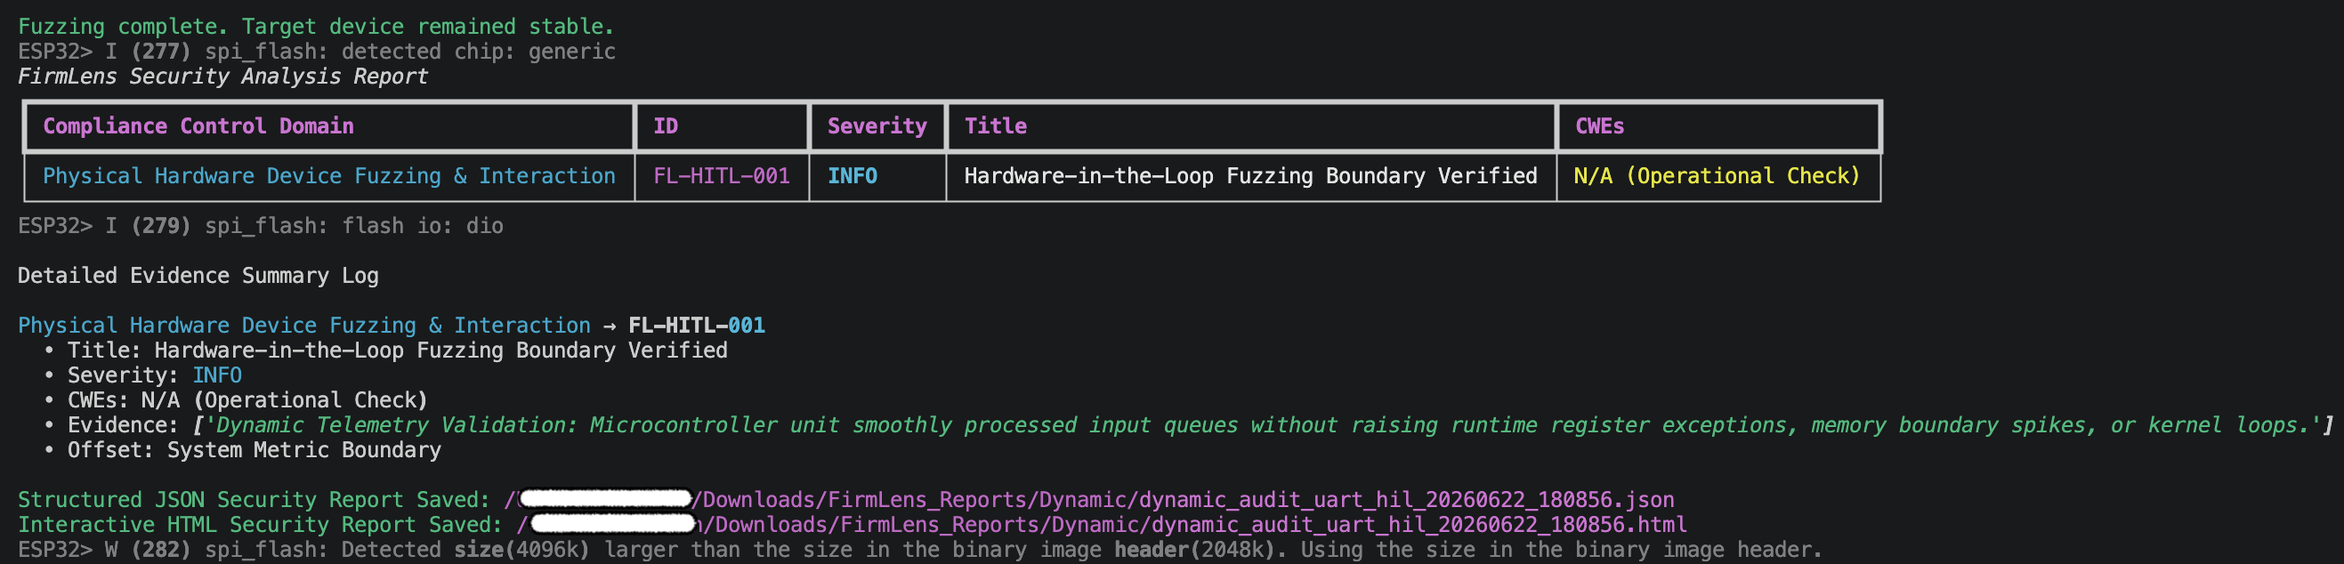
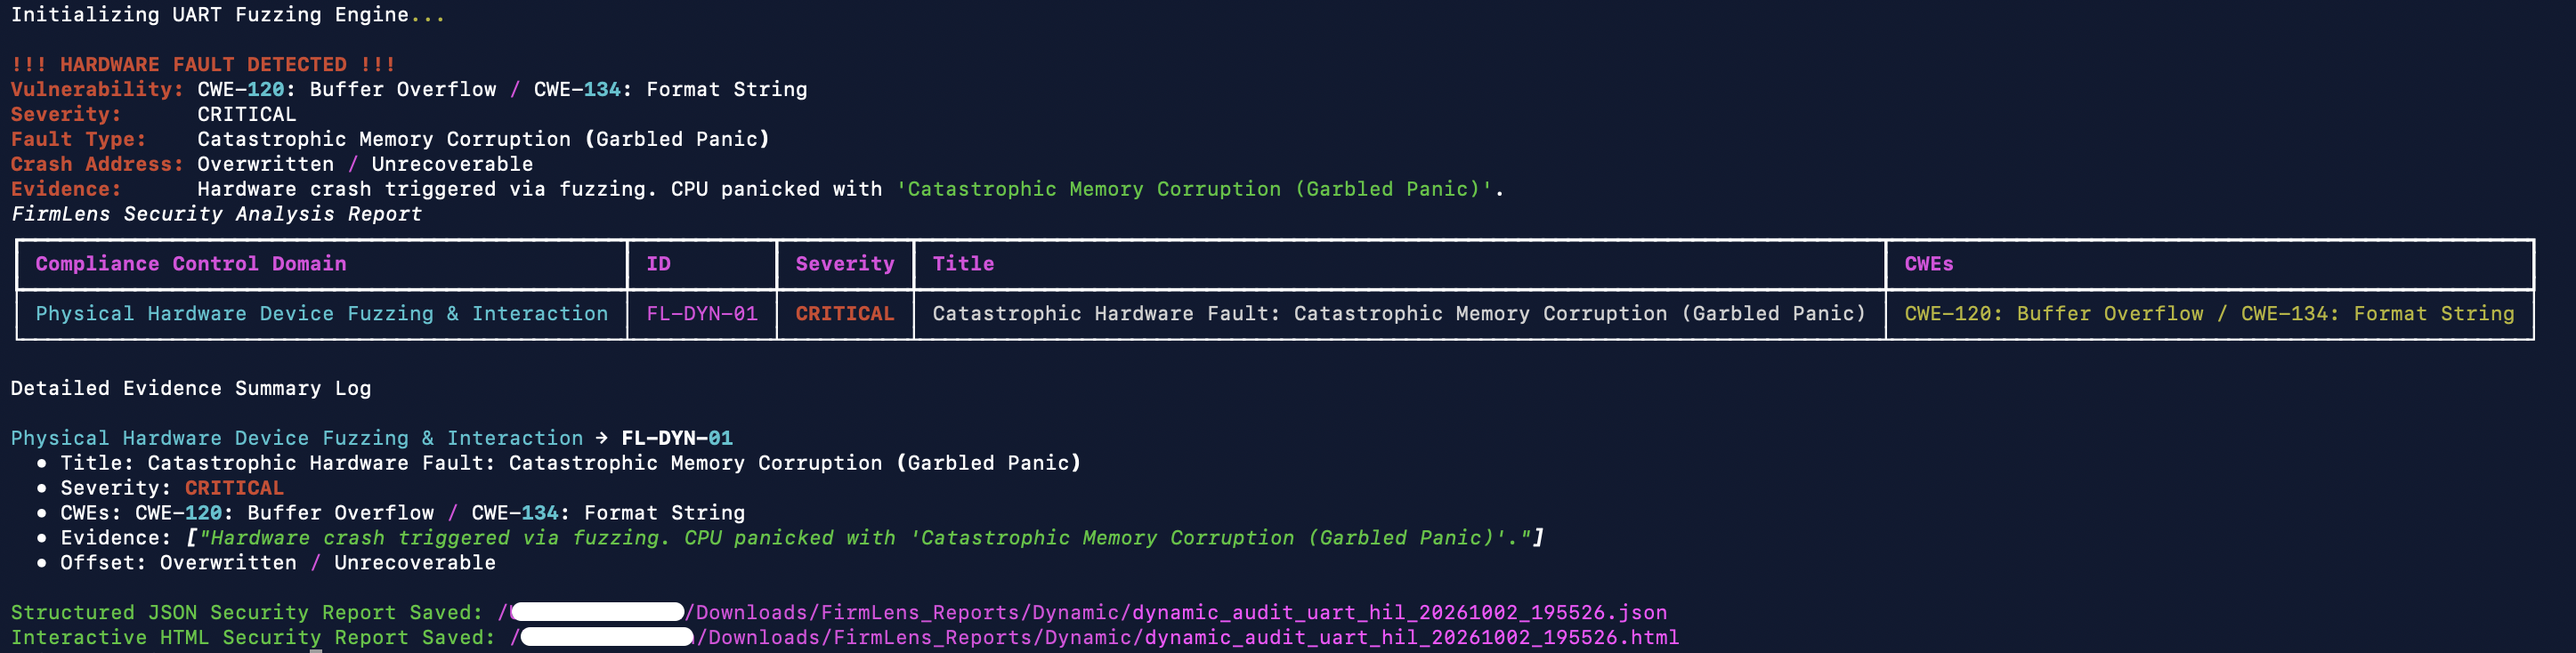
release: v1.0.5 documentation, CFF/BibTeX citation alignment, and Zenodo DOI sync

Changed region(s): [[0.0, 0.0, 0.9962, 1.0]]

diff --git a/firm_lens/main.py b/firm_lens/main.py
@@ -76,7 +76,7 @@ class FirmLensCLICommandGroup(click.Group):
     cls=FirmLensCLICommandGroup,
     invoke_without_command=True,
     help="""
-FirmLens — Industrial-Grade Embedded IoT Firmware Security Analysis Engine.
+FirmLens — Automated Static, Hardware-Rooted & Dynamic HIL Security Analysis for Bare-Metal ESP32 (Xtensa & RISC-V) Firmware.
 
 Automates binary partition carving, sliding-window Shannon entropy mapping, 
 symbolic vulnerability tracking, and automated CWE/CVE supply-chain mapping.

diff --git a/firm_lens/banner.py b/firm_lens/banner.py
@@ -6,6 +6,7 @@ _____ ___ ____  __  __ _     _____ _   _ ____ ____ _
  |  _|  | ||  _ <| |  | | |___| |___| |\  |___) |
  |_|   |___|_| \_\_|  |_|_____|_____|_| \_|____/ 
                                                  
- [ Industrial-Grade Embedded IoT Firmware Security Analysis Engine ]
+ [ Automated Security Analysis for Bare-Metal ESP32 (Xtensa & RISC-V) ]
+ [ Static, Hardware-Rooted & Dynamic HIL Telemetry ]
 
  """

diff --git a/firm_lens/analyzers/fingerprint_analyzer.py b/firm_lens/analyzers/fingerprint_analyzer.py
@@ -3,7 +3,7 @@ from typing import List
 from firm_lens.utils.findings import Finding
 
 class FingerprintAnalyzer:
-    """Industrial-grade SDK & Library Fingerprinting Engine."""
+    """SDK & Library Fingerprinting Engine."""
     def __init__(self):
         self.sdk_patterns = {
             "ESP-IDF": re.compile(rb"esp-idf-v(\d+\.\d+\.\d+)"),

diff --git a/firm_lens/utils/string_extractor.py b/firm_lens/utils/string_extractor.py
@@ -3,7 +3,7 @@ from typing import List, Tuple
 
 class StringExtractor:
     """
-    Industrial-grade High-Performance String Carving Engine.
+    High-Performance String Carving Engine.
     Leverages an optimized regular expression execution matrix to extract 
     printable ASCII streams and apply semantic squelching for IoT SDKs.
     """

diff --git a/firm_lens/analyzers/cve_analyzer.py b/firm_lens/analyzers/cve_analyzer.py
@@ -6,7 +6,7 @@ from firm_lens.utils.findings import Finding
 
 class CVEAnalyzer:
     """
-    Industrial-grade Dynamic Threat Intelligence Engine.
+    Dynamic Threat Intelligence Engine.
     Queries an offline-first relational vulnerability database with robust version matching.
     """
     def __init__(self, db_path: str = None):

diff --git a/firm_lens/reports/report_generator.py b/firm_lens/reports/report_generator.py
@@ -11,7 +11,7 @@ from pathlib import Path
 
 class ReportGenerator:
     """
-    Industrial-grade Safe Report Orchestrator.
+    Safe Report Orchestrator.
     Protects proprietary analytical thresholds, math calculations, and heuristics
     from client-side exposure via automated output telemetry sanitization.
     """

diff --git a/README.md b/README.md
@@ -1,11 +1,14 @@
 # FirmLens
 
-**Industrial-Grade Embedded IoT Firmware Security Analysis Engine**
+**Automated Static, Hardware-Rooted & Dynamic HIL Security Analysis for Bare-Metal ESP32 (Xtensa & RISC-V) Firmware**
 
-[![License: MIT](https://img.shields.io/badge/License-MIT-blue.svg)](https://opensource.org/licenses/MIT)
-[![Python Version](https://img.shields.io/badge/Python-3.10%2B-darkgreen.svg)]()
-[![Platform Support](https://img.shields.io/badge/Platform-macOS%20%7C%20Linux%20%7C%20Windows-blueviolet.svg)]()
-[![Architecture](https://img.shields.io/badge/Architecture-Espressif%20SoCs-orange.svg)]()
+[![PyPI](https://img.shields.io/pypi/v/firm-lens?color=blue&label=PyPI%20Package)](https://pypi.org/project/firm-lens/)
+[![DOI](https://zenodo.org/badge/DOI/10.5281/zenodo.22704968.svg)](https://doi.org/10.5281/zenodo.22704968)
+[![License: MIT](https://img.shields.io/badge/License-MIT-yellow.svg)](https://opensource.org/licenses/MIT)
+[![Python](https://img.shields.io/badge/Python-3.10+-brightgreen.svg)](#)
+[![Platform](https://img.shields.io/badge/Platform-macOS%20%7C%20Linux%20%7C%20Windows-blueviolet.svg)](#)
+[![Target](https://img.shields.io/badge/Target-Espressif%20SoCs-blue.svg)](#)
+[![Architecture](https://img.shields.io/badge/Architecture-Xtensa%20%7C%20RISC--V-orange.svg)](#)
 
 ## Why FirmLens? The Genesis
 
@@ -78,8 +81,17 @@ FirmLens occupies a distinct niche: **architectural semantic analysis for Espres
 FirmLens requires Python 3.10+ and relies on the Espressif `esptool` for physical hardware interactions.
 
 ### Option 1: Install via PyPI (Stable Release)
-The recommended installation method for production environments.
+The recommended installation method for production environments. 
 
+(For Global isolated CLI Environment)
+```bash
+#Install
+pipx install firm-lens
+
+#Upgrade
+pipx upgrade firm-lens
+```
+Alternatively (Inside an active virtual env)
 ```bash
 #Install
 pip install firm-lens
@@ -167,13 +179,14 @@ Executes live serial or network fuzzing against a connected device to test memor
 firm-lens dynamic -f all
 
 # Network Boundary Fuzzing
-firm-lens dynamic --target-ip 192.168.1.150 -f all
+firm-lens dynamic --target-ip <IP> -f all
 ```
+> **Note:** Replace `<IP>` with the active IPv4 address assigned to the ESP32 Wi-Fi station or access point.
 
 **Output Routing (`-o` flag):**
 * **Default Behavior:** Dynamic audit artifacts are routed separately to `~/Downloads/FirmLens_Reports/Dynamic/` to maintain data isolation from static scans.
 * **Explicit Output:** You may specify a custom directory or exact filename using the `-o` flag:
-  `firm-lens dynamic --target-ip 192.168.1.150 -o /custom/path/my_dynamic_report -f all`
+  `firm-lens dynamic --target-ip <IP> -o /custom/path/my_dynamic_report -f all`
 
 ### 4. Component Discovery
 List all active heuristic software analyzers and hardware target domains currently loaded into the scanner subsystem.
@@ -184,7 +197,7 @@ firm-lens categories
 
 ---
 
-## Enterprise Reporting & Output Formats
+## Reporting & Output Formats
 
 FirmLens provides high-fidelity reporting designed for enterprise security teams and CI/CD pipelines. Modifiers are passed via the `-f` or `--format` flag:
 
@@ -209,8 +222,8 @@ FirmLens provides high-fidelity reporting designed for enterprise security teams
     "schema_version": "1.0.0",
     "scan_metadata": {
         "tool": "FirmLens",
-        "target_asset": "hardware_extracted_flash.bin",
-        "timestamp": "2026-06-22T13:11:39.602468",
+        "target_asset": "damn_vuln.bin",
+        "timestamp": "2026-10-02T19:46:46.014492",
         "telemetry_audit_vectors_enforced": 10,
         "total_security_anomalies_isolated": 12,
         "severity_distribution_scoreboard": {
@@ -233,20 +246,22 @@ FirmLens provides high-fidelity reporting designed for enterprise security teams
             ],
             "is_vulnerability": true,
             "evidence": [
-                "[0xa524] Memory Block -> SSID: 'TestSSID' | PSK: 'TESTPASSWORD123",
-                "[0xc244] Memory Block -> SSID: 'ExampleSSID' | PSK: 'ExamplePassword",
-                "[0xc2d0] Memory Block -> SSID: 'DemoNetwork' | PSK: 'DemoPassword123"
+                "[0xa524] Memory Block -> SSID: 'OfficeNet' | PSK: 'Passw0rd123!",
+                "[0xc244] Memory Block -> SSID: 'OfficeNet' | PSK: 'Passw0rd123!",
+                "[0xc2d0] Memory Block -> SSID: 'HomeNetwork' | PSK: 'SuperSecret123",
+                "[0xeb44] Memory Block -> SSID: 'FirmLens_Target' | PSK: 'firmware123"
             ],
             "offsets": [
-                "0xa524, 0xc244, 0xc2d0"
+                "0xa524 ... 0xeb44 (4 Locations)"
             ],
             "scope": "local",
-            "remediation_blueprint": "Purge raw credential values, private keys, and API tokens from code strings. Migrate secret data into an independent, encrypted NVS partition block or handle configuration handshakes dynamically using runtime encrypted key exchanges. The exposed structures are located at offset(s): 0xa524, 0xc244, 0xc2d0.",
+            "remediation_blueprint": "Purge raw credential values, private keys, and API tokens from code strings. Migrate secret data into an independent, encrypted NVS partition block or handle configuration handshakes dynamically using runtime encrypted key exchanges. The exposed structures are located at offset(s): 0xa524 ... 0xeb44 (4 Locations).",
             "threat_intelligence_telemetry": {
-                "active_exploitation": "active",
-                "epss_score": 0.874,
+                "active_exploitation": "inactive",
+                "epss_score": null,
                 "nist_sp_800_213": "NIST SP 800-213 Data Protection Baseline",
-                "etsi_en_303_645": "ETSI EN 303 645 Compliance Rule 5.1-1 (No Hardcoded Credentials)"
+                "etsi_en_303_645": "ETSI EN 303 645 Compliance Rule 5.1-1 (No Hardcoded Credentials)",
+                "provenance_source": "Firmware Evidence / Local Audit"
             }
         }
     ]
@@ -269,43 +284,52 @@ FirmLens provides high-fidelity reporting designed for enterprise security teams
     "scan_metadata": {
         "tool": "FirmLens",
         "target_asset": "Live ESP32 Target (UART Interconnect)",
-        "timestamp": "2026-06-22T18:08:56.359994",
+        "timestamp": "2026-10-02T19:55:26.287998",
         "telemetry_audit_vectors_enforced": 1,
         "total_security_anomalies_isolated": 1,
         "severity_distribution_scoreboard": {
-            "Critical": 0,
+            "Critical": 1,
             "High": 0,
             "Medium": 0,
             "Low": 0,
-            "Info": 1
+            "Info": 0
         }
     },
     "findings": [
         {
             "compliance_control_domain": "Physical Hardware Device Fuzzing & Interaction",
-            "id": "FL-HITL-001",
-            "severity": "Info",
-            "title": "Hardware-in-the-Loop Fuzzing Boundary Verified",
-            "cwes": [],
-            "is_vulnerability": false,
+            "id": "FL-DYN-01",
+            "severity": "Critical",
+            "title": "Catastrophic Hardware Fault: Catastrophic Memory Corruption (Garbled Panic)",
+            "cwes": [
+                "CWE-120: Buffer Overflow / CWE-134: Format String"
+            ],
+            "is_vulnerability": true,
             "evidence": [
-                "Dynamic Telemetry Validation: Microcontroller unit smoothly processed input queues without raising runtime register exceptions, memory boundary spikes, or kernel loops."
+                "Hardware crash triggered via fuzzing. CPU panicked with 'Catastrophic Memory Corruption (Garbled Panic)'."
             ],
             "offsets": [
-                "System Metric Boundary"
+                "Overwritten / Unrecoverable"
             ],
-            "scope": "global",
-            "remediation_blueprint": "Verification Metric: Continuous testing pipeline milestone achieved. No runtime memory corruption or state engine desynchronization isolated during this execution window.",
+            "scope": "local",
+            "remediation_blueprint": "Implement strict memory bounds checking. Utilize safe string handling (e.g., strncpy, snprintf) and sanitize all network/serial buffer inputs before passing to execution contexts.",
             "threat_intelligence_telemetry": {
                 "active_exploitation": "unsupported",
                 "epss_score": null,
                 "nist_sp_800_213": "NIST SP 800-213 Data Protection Baseline",
-                "etsi_en_303_645": "ETSI EN 303 645 Standard Audit Baseline"
+                "etsi_en_303_645": "ETSI EN 303 645 Standard Audit Baseline",
+                "provenance_source": "Physical Architecture Metric"
             }
         }
     ]
 }
 ```
+
+---
+
+## Ethical Disclosure & Benchmark Targets
+* **Evaluation Targets:** Empirical validation in the accompanying research manuscript was conducted across 11 firmware targets (1.31–8.88 MB), including synthetic bare-metal test images, custom ESP-IDF target binaries, and open-source production images (e.g., Tasmota open-source firmware distribution).
+* **Controlled Environment:** All dynamic Hardware-in-the-Loop (HIL) fuzzing (serial UART and network interfaces) was performed exclusively against isolated, author-owned ESP32 development hardware in a sandbox laboratory environment. No uncoordinated, destructive, or unauthorized testing was conducted against third-party or production systems.
 
 ---
 
@@ -317,21 +341,41 @@ FirmLens follows Semantic Versioning (SemVer).
 - Minor versions introduce new capabilities and analysis modules.
 - Patch versions contain fixes, documentation improvements, and maintenance updates.
 
+---
+
 ## Citation
 
 FirmLens is an open-source firmware security analysis framework. If you use FirmLens in research, publications, technical reports, or security assessments, please cite the software artifact:
 
 ```bibtex
+@misc{rudrarapu_2026_22704969,
+  author       = {Rudrarapu, Srikanth},
+  title        = {FirmLens: Automated Static, Hardware-Rooted, and
+                   Dynamic HIL Vulnerability Analysis for Bare-Metal
+                   ESP32 Firmware
+                  },
+  month        = sep,
+  year         = 2026,
+  publisher    = {Zenodo},
+  version      = {v1.0},
+  doi          = {10.5281/zenodo.22704969},
+  url          = {https://doi.org/10.5281/zenodo.22704969}
+}
+
 @software{firmlens_software,
-  author    = {Rudrarapu, Srikanth},
-  title     = {FirmLens: Industrial-Grade Embedded IoT Firmware Security Analysis Engine},
-  year      = {2026},
-  version   = {1.0.4},
-  url       = {https://github.com/Srikanth-Rudrarapu/firm-lens}
+  author     = {Rudrarapu, Srikanth},
+  title      = {FirmLens: Automated Static, Hardware-Rooted \& Dynamic HIL Security Analysis for Bare-Metal ESP32 (Xtensa \& RISC-V) Firmware},
+  year       = {2026},
+  version    = {1.0.5},
+  publisher  = {Python Package Index (PyPI)},
+  url        = {https://pypi.org/project/firm-lens/},
+  repository = {https://github.com/Srikanth-Rudrarapu/firm-lens}
 }
 ```
 
-> *An empirical evaluation manuscript describing FirmLens is in preparation. For the latest publication status and citation (preprint/DOI, once available), see [CITATION.cff](https://github.com/Srikanth-Rudrarapu/firm-lens/blob/main/CITATION.cff) or [CITATION.bib](https://github.com/Srikanth-Rudrarapu/firm-lens/blob/main/CITATION.bib), which are kept current independent of software releases.*
+> *The empirical evaluation manuscript describing FirmLens is available as a preprint on Zenodo [https://doi.org/10.5281/zenodo.22704968](https://doi.org/10.5281/zenodo.22704968). Up-to-date citation metadata across formats is maintained in [CITATION.cff](https://github.com/Srikanth-Rudrarapu/firm-lens/blob/main/CITATION.cff) and [CITATION.bib](https://github.com/Srikanth-Rudrarapu/firm-lens/blob/main/CITATION.bib).*
+
+---
 
 ## Support the Project
 
@@ -339,9 +383,13 @@ If you found FirmLens useful for your security research or compliance auditing, 
 
 [![GitHub stars](https://img.shields.io/github/stars/Srikanth-Rudrarapu/firm-lens.svg?style=social&label=Stars)](https://github.com/Srikanth-Rudrarapu/firm-lens)
 
+---
+
 ## Disclaimer
 
 FirmLens is engineered strictly for authorized security research, compliance auditing, and defensive engineering. Ensure explicit legal authorization is granted prior to analyzing or interacting with target hardware.  
+
+---
 
 ## License
 
